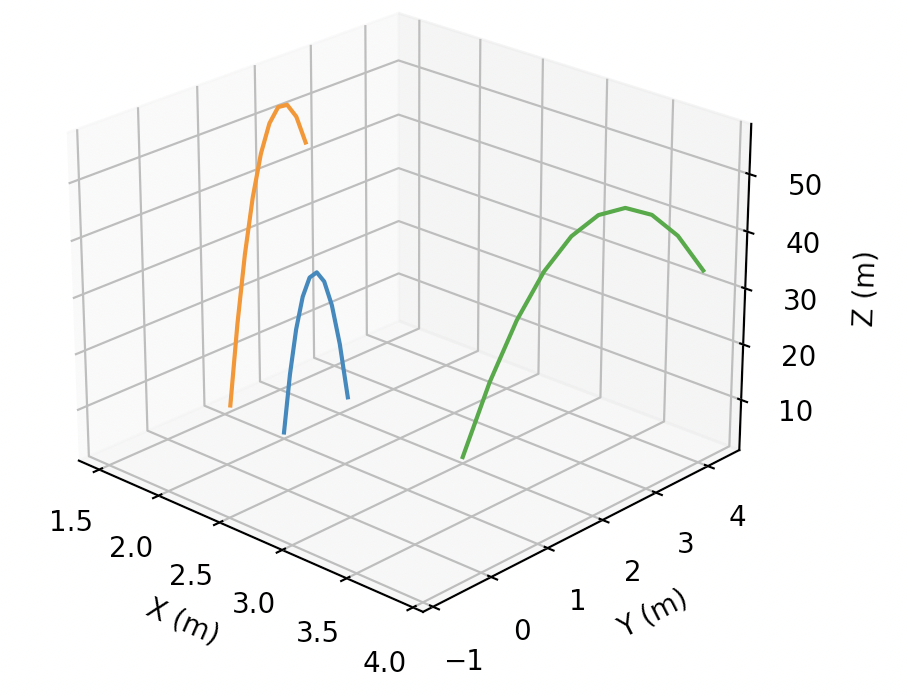
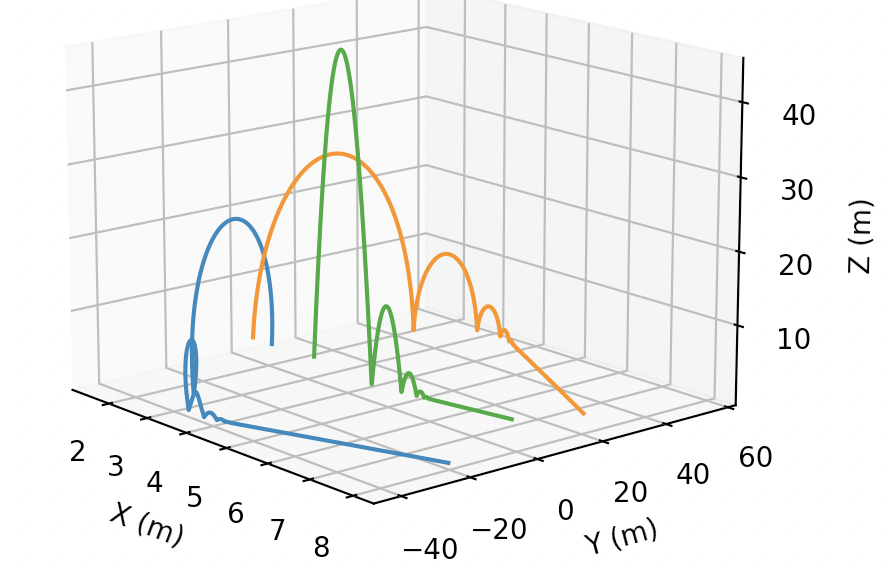
added simulation ground with bounce and lorenz force

diff --git a/Simulation.py b/Simulation.py
@@ -32,6 +32,8 @@ class Simulation:
         self.Forces      = []    
         # Store the ground plane
         self.Constraints = []
+
+        self.Constraints.append( GroundPlane(self.Particles, 0.5) )
         
     def Save( self ):
         """
@@ -159,7 +161,7 @@ class Simulation:
         
         #-- Ground constraint
         #--
-        ground = Ground( self.Particles, 0.5 )
+        ground = GroundPlane( self.Particles, 0.5 )
         self.Constraints.append( ground )
 
 # Thhe ground of the simulation
@@ -183,7 +185,6 @@ class GroundPlane:
         - particles (list): A list of Particle objects affected by the ground.
         - loss (float, optional): A coefficient representing energy loss upon bouncing. Default is 1.0.
         """
-         
         self.Particles = particles
         self.Loss = loss
         
@@ -193,7 +194,6 @@ class GroundPlane:
         """
 
         for particle in self.Particles:
-            if( particle.Position.Z < 0 ):
-                particle.Position.Z *= -1
-                particle.Velocity.Z *= -1
-                particle.Velocity *= self.Loss
+            if( particle.Position[2] < 0 ):
+                particle.Position[2] = particle.Position[2] * -1
+                particle.Velocity[2] = particle.Velocity[2] * -1 * self.Loss

diff --git a/Particle.py b/Particle.py
@@ -14,7 +14,7 @@ class Particle:
     - Display(): Returns the current position of the particle.
     """
 
-    def __init__(self, position, velocity, mass, forceSum=np.array([0, 0, 0])):
+    def __init__(self, position, velocity, mass, charge=0, forceSum=np.array([0, 0, 0])):
         """
         Initializes a new Particle instance.
 
@@ -29,6 +29,7 @@ class Particle:
         self.Velocity = np.array(velocity)
         self.SumForce = np.array(forceSum)
         self.Mass = mass
+        self.Charge = charge
         self.History = position
 
     def Save(self):
@@ -36,7 +37,7 @@ class Particle:
         Saves the positional history of the particle. Used for ploting the particles' path
         """
         self.History = np.vstack((self.History, self.Position))
-        
+
     def Display(self):
         """
         Returns the current position of the particle.

diff --git a/main.py b/main.py
@@ -8,22 +8,23 @@ sim = Simulation()
 
 
 # Create a particle and add it to the simulation
-p1 = Particle([2, 1, 2], [0.3, -0.4, 28], 1)
-p2= Particle([1.5, 1.1, 2], [0.1, 0.1, 33], 1)
-p3 = Particle([3, 2, 2], [0.2, 0.5, 29], 1)
+p1 = Particle([2, 1, 2], [0.3, -0.4, 28], 1, -1)
+p2= Particle([1.5, 1.1, 2], [0.3, 0.1, 33], 1, 1)
+p3 = Particle([3, 2, 2], [0.2, 0.5, 29], 1, 0)
 sim.Particles.append(p1)
 sim.Particles.append(p2)
 sim.Particles.append(p3)
 
 # Add gravity force to the simulation
 sim.Forces.append(Gravity())
+sim.Forces.append(Lorenz(np.array([1,0,0])))
 
 # Display information about the system
 sim.Display()
 
 #  tick over the simulation
-for x in range(10):
-    sim.Update(0.5)
+for x in range(2000):
+    sim.Update(0.01)
 
 # plot the simulation results
 sim.Plot()

diff --git a/Forces.py b/Forces.py
@@ -67,3 +67,14 @@ class Damping:
             particle.SumForce = particle.SumForce + (particle.Velocity * -self.Scaling)
 
 
+class Lorenz:
+    def __init__( self, bField=np.array([0,0,0]), eField=np.array([0,0,0])):
+        self.eField = eField
+        self.bField = bField
+
+    def Apply( self, particles):
+
+        for particle in particles:
+            LorenzForce = particle.Charge * self.eField + particle.Charge *(np.cross(particle.Velocity, self.bField))
+            print(LorenzForce)
+            particle.SumForce = particle.SumForce + (LorenzForce)
